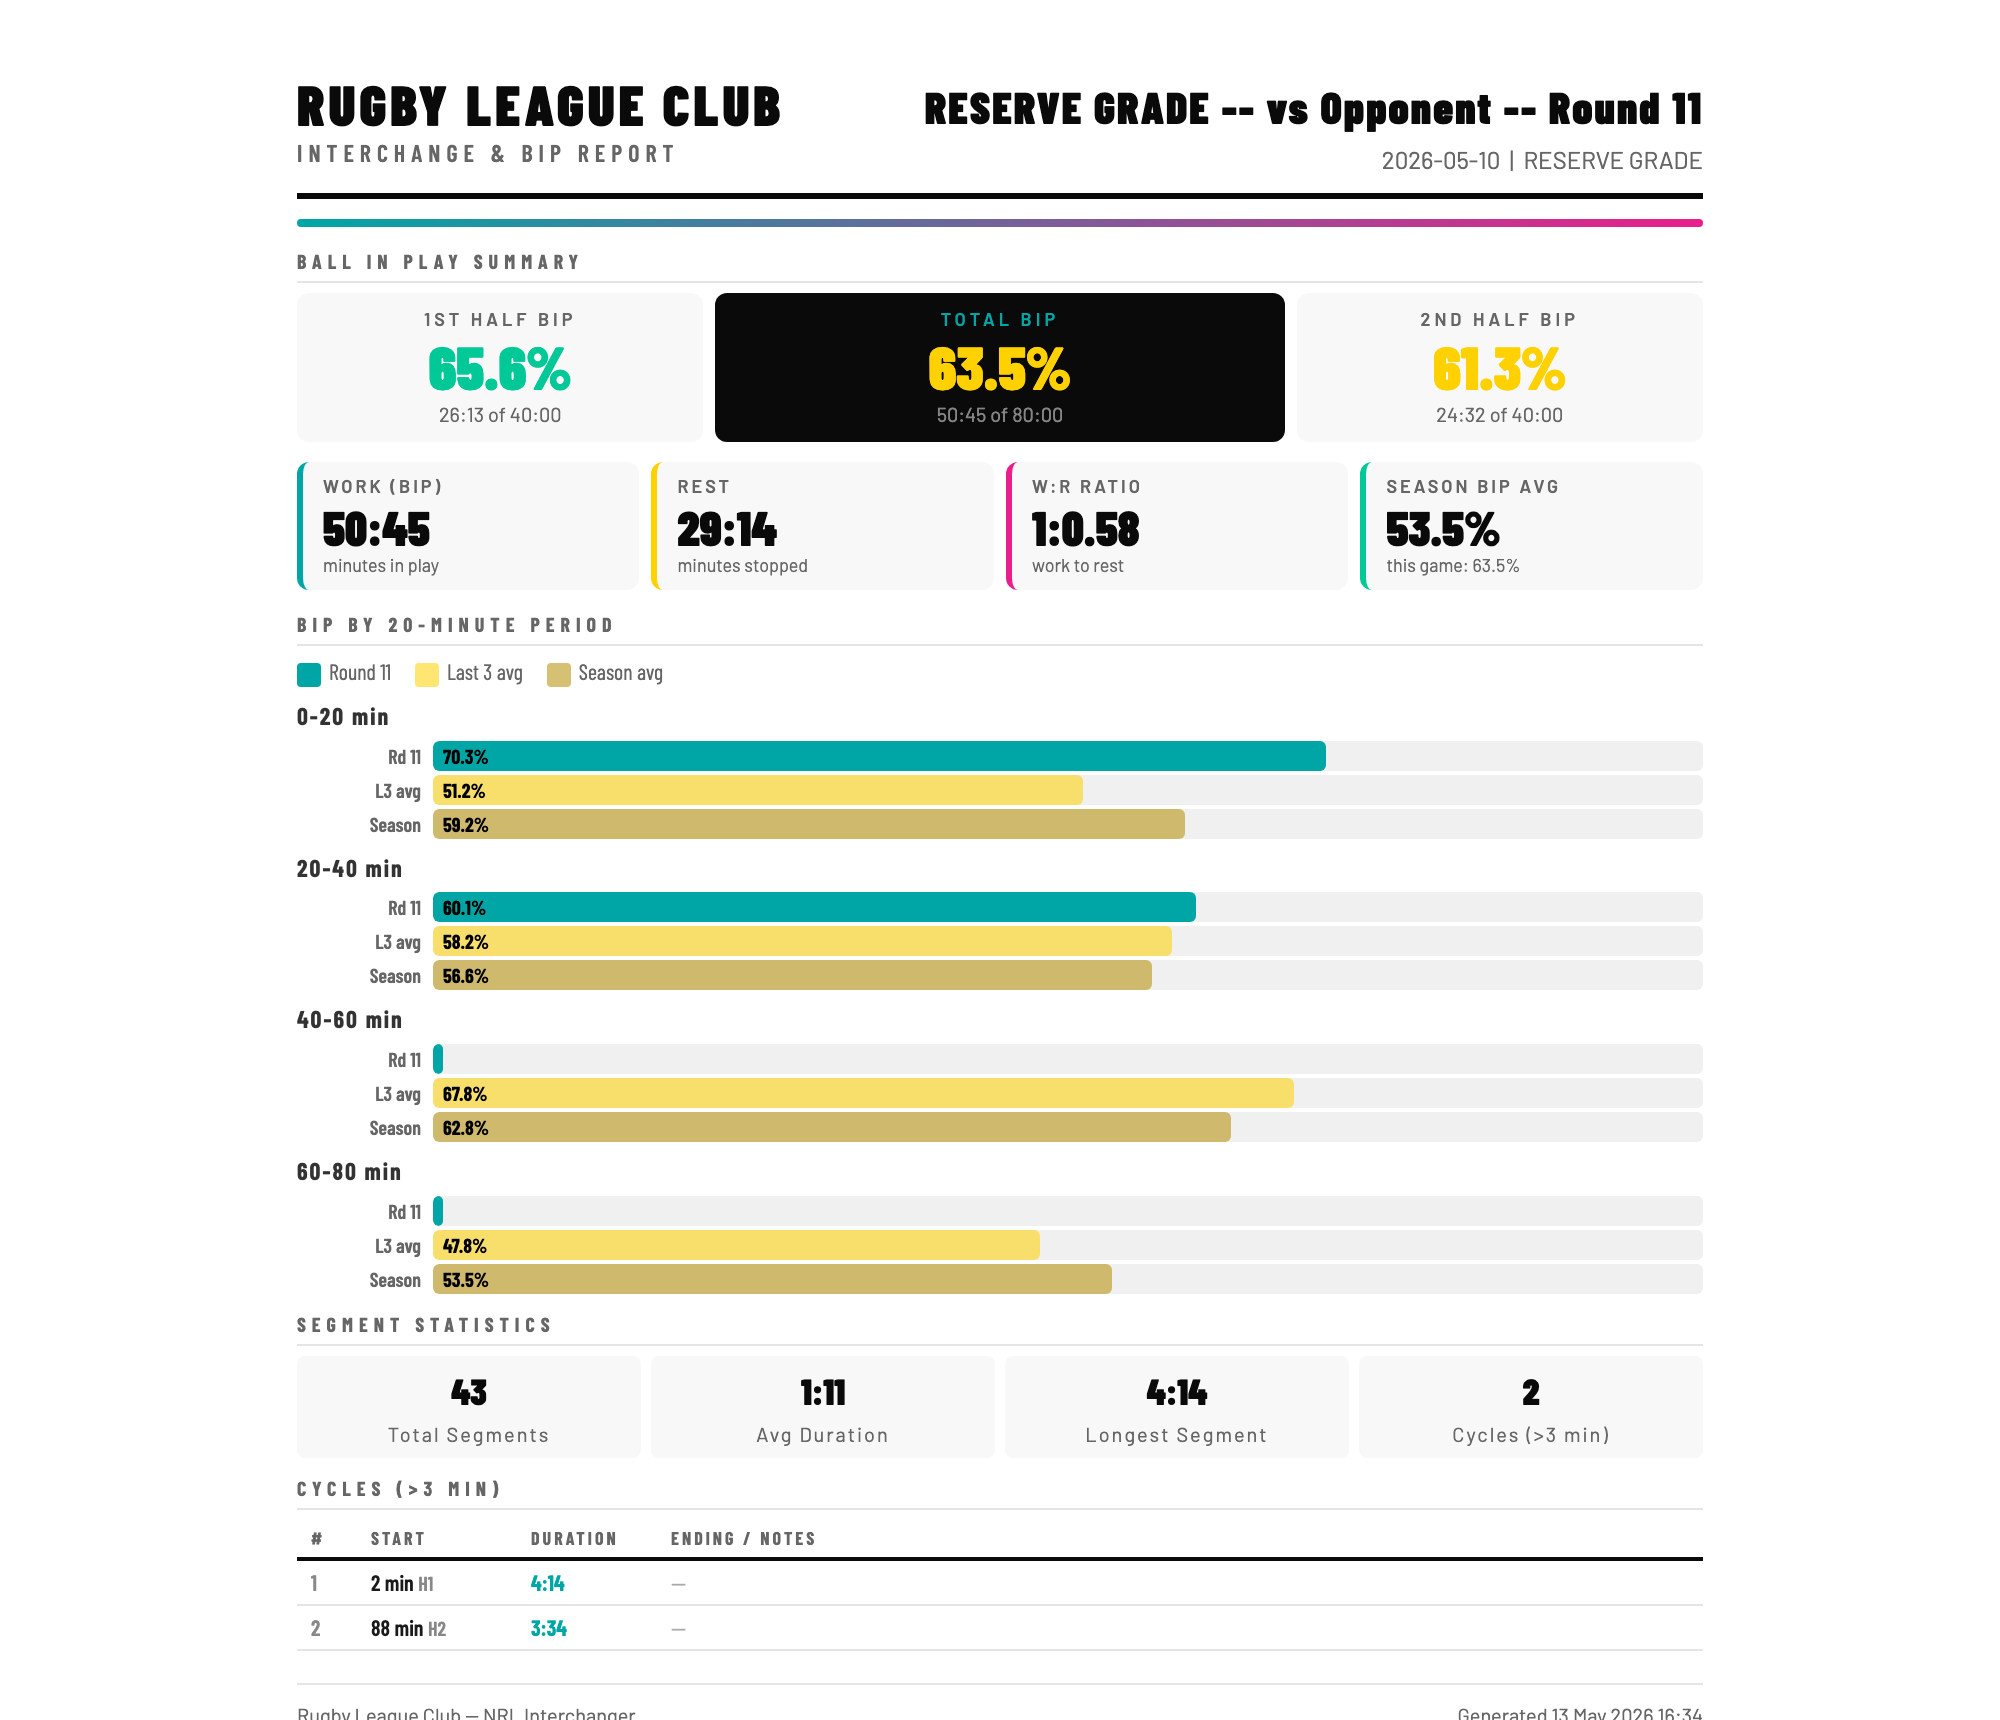
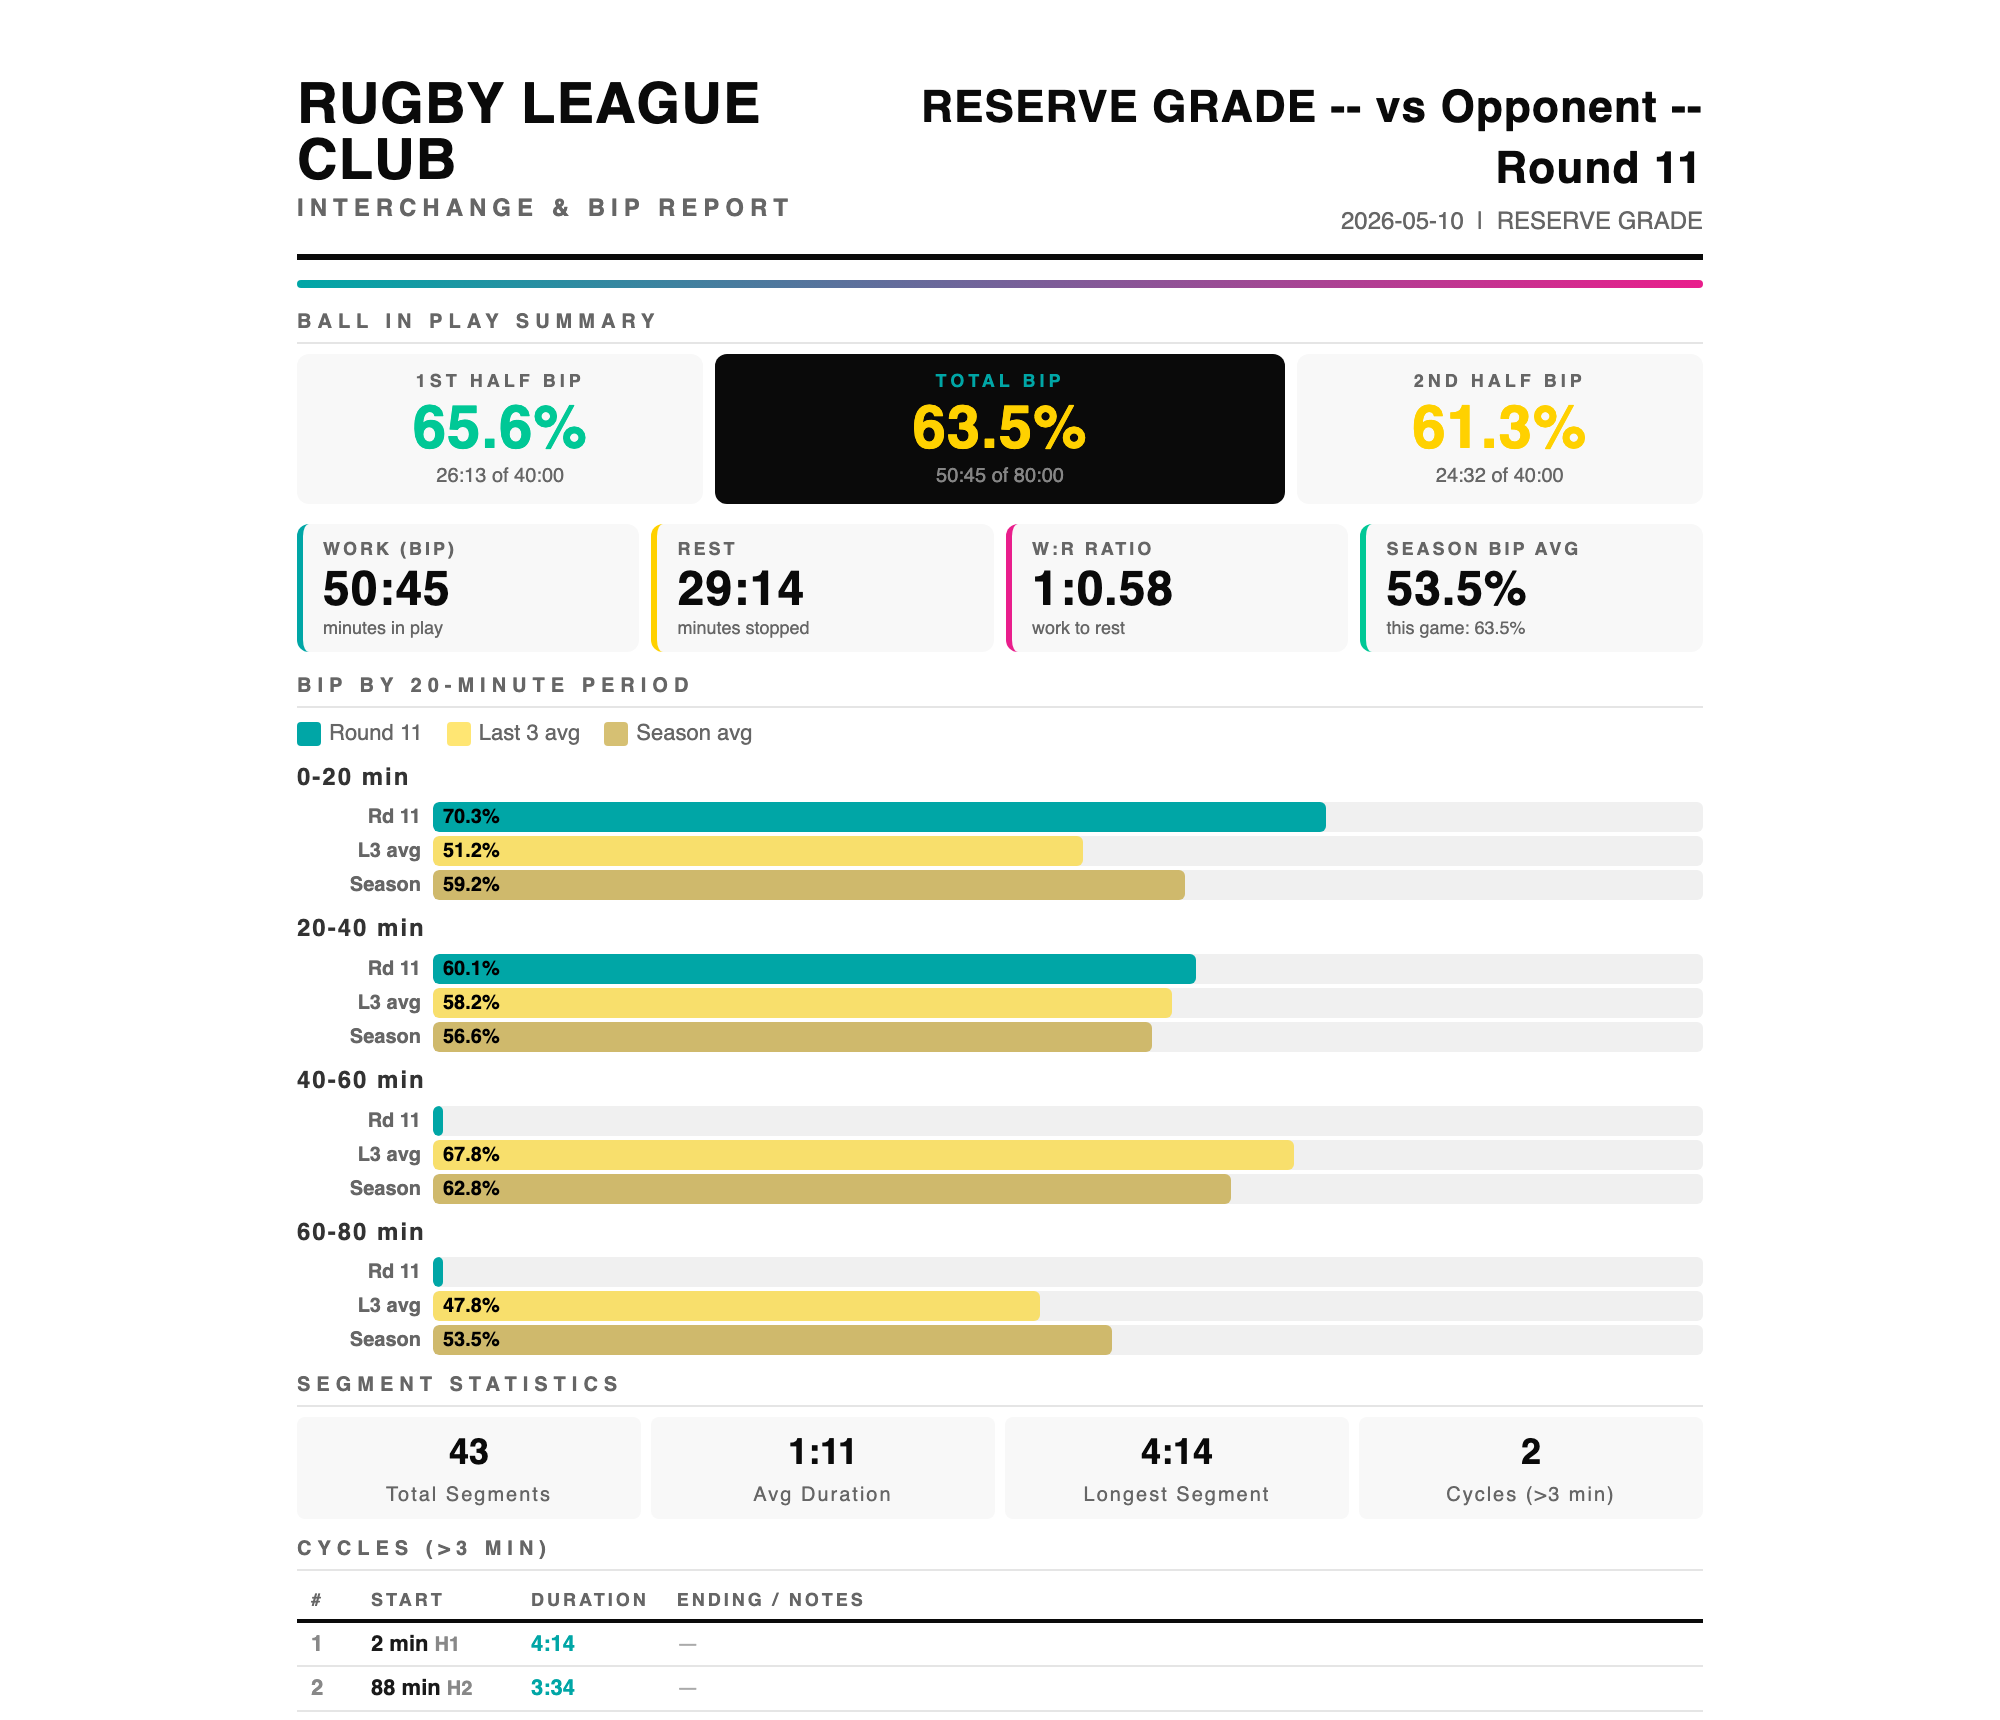
Resume: BI tools, GymAware/VBT, speed prescription, Product&UX, AUSA product+leadgen. Portfolio: footer contact, deck loop, lighter report numbers

Changed region(s): [[0.124, 0.0308, 0.868, 1.0], [0.744, 0.8012, 0.775, 0.8628]]

diff --git a/index.html b/index.html
@@ -13,7 +13,6 @@
 <body>
 <nav class="nav"><div class="wrap">
   <span class="brand">Uday Barooah</span>
-  <span class="links"><a href="mailto:[email redacted]">Contact</a></span>
 </div></nav>
 
 <header class="masthead"><div class="wrap">
@@ -284,8 +283,8 @@
             <g stroke="#13524b" stroke-width="2" fill="none" marker-end="url(#dd)"><path d="M140 98 H 176"/><path d="M306 98 H 342"/><path d="M472 98 H 508"/></g>
             <defs><marker id="dd" markerWidth="9" markerHeight="9" refX="7" refY="3" orient="auto"><path d="M0,0 L7,3 L0,6 Z" fill="#13524b"/></marker></defs>
             <rect x="508" y="56" width="192" height="84" rx="8" fill="#faf9f6" stroke="#d8d6d0"/><text x="524" y="80" font-family="Inter Tight,Arial" font-size="12" font-weight="700" fill="#13524b">Editable .pptx</text><text x="524" y="98" font-family="Inter Tight,Arial" font-size="10" fill="#8a8a8a">native charts, not images</text><text x="524" y="120" font-family="Inter Tight,Arial" font-size="10" fill="#8a8a8a">live preview + PDF export</text>
-            <path d="M508 140 C 508 200, 241 200, 241 140" stroke="#c08a2d" stroke-width="1.6" fill="none" marker-end="url(#dd)" stroke-dasharray="5 4"/>
-            <text x="375" y="196" font-family="Inter Tight,Arial" font-size="10" fill="#c08a2d" text-anchor="middle">completed decks feed back and sharpen the next one</text>
+            <path d="M604 140 V 182 H 241 V 138" stroke="#c08a2d" stroke-width="1.6" fill="none" marker-end="url(#dd)" stroke-dasharray="5 4"/>
+            <text x="422" y="176" font-family="Inter Tight,Arial" font-size="10" fill="#c08a2d" text-anchor="middle">completed decks feed back and sharpen the next one</text>
           </svg>
         </div>
       </div>
@@ -426,7 +425,7 @@
 </div>
 
 <footer><div class="wrap">
-  Uday Barooah &middot; <a href="mailto:[email redacted]">[email redacted]</a>
+  Uday Barooah &middot; <a href="mailto:[email redacted]">[email redacted]</a> &middot; <a href="tel:[phone redacted]">[phone redacted]</a>
 </div></footer>
 
 <script>